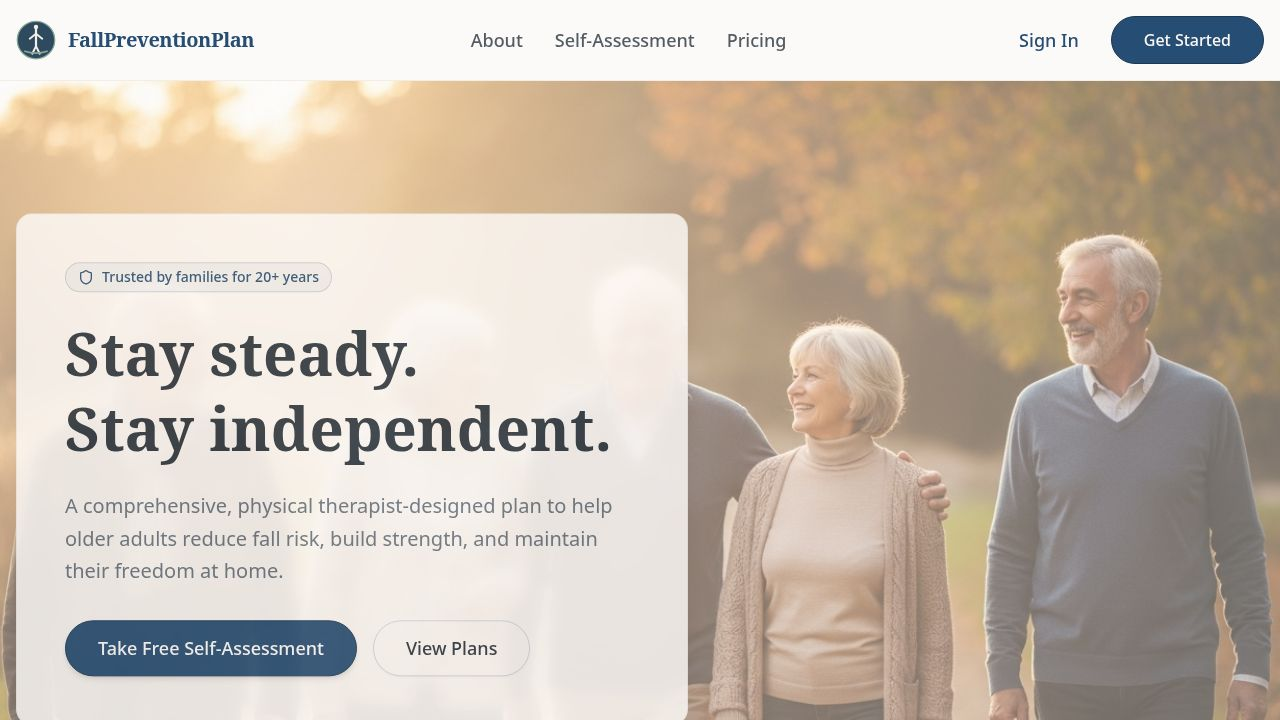
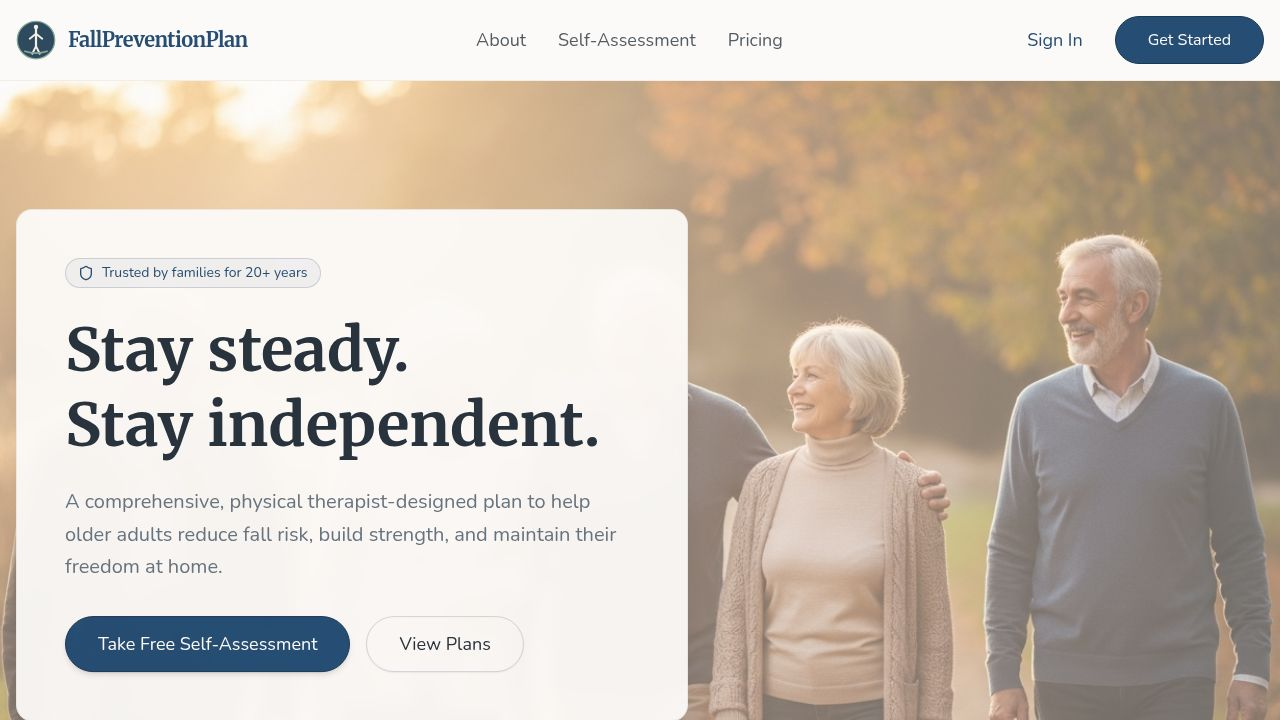
Remove development plugins causing performance issues in the builder
Remove Replit Vite dev plugins (@user/vite-plugin-runtime-error-modal, @user/vite-plugin-cartographer, @user/vite-plugin-dev-banner) from vite.config.ts to prevent performance degradation and lockups in the Replit Builder environment.

Replit-Commit-Author: Agent
Replit-Commit-Session-Id: fdaf1b6c-fd5c-43c2-bbff-111457590b0a
Replit-Commit-Checkpoint-Type: full_checkpoint
Replit-Commit-Event-Id: 6ae3dd61-efcc-47f7-8978-1588e67a6cf3
Replit-Commit-Screenshot-Url: https://storage.googleapis.com/screenshot-production-us-central1/c8083984-31cf-407a-8ee0-333b7ae05c8a/fdaf1b6c-fd5c-43c2-bbff-111457590b0a/IcngHtD
Replit-Helium-Checkpoint-Created: true

diff --git a/artifacts/fall-prevention/vite.config.ts b/artifacts/fall-prevention/vite.config.ts
@@ -2,8 +2,6 @@ import { defineConfig } from "vite";
 import react from "@vitejs/plugin-react";
 import tailwindcss from "@tailwindcss/vite";
 import path from "path";
-import runtimeErrorOverlay from "@replit/vite-plugin-runtime-error-modal";
-
 const rawPort = process.env.PORT;
 
 if (!rawPort) {
@@ -31,20 +29,11 @@ export default defineConfig({
   plugins: [
     react(),
     tailwindcss(),
-    runtimeErrorOverlay(),
-    ...(process.env.NODE_ENV !== "production" &&
-    process.env.REPL_ID !== undefined
-      ? [
-          await import("@replit/vite-plugin-cartographer").then((m) =>
-            m.cartographer({
-              root: path.resolve(import.meta.dirname, ".."),
-            }),
-          ),
-          await import("@replit/vite-plugin-dev-banner").then((m) =>
-            m.devBanner(),
-          ),
-        ]
-      : []),
+    // NOTE: Replit's cartographer + devBanner + runtime-error-overlay plugins
+    // were causing the Builder iframe to flood the parent frame with
+    // postMessage traffic, which spiked CPU and locked up the workspace.
+    // They're development-only conveniences and the app works fine without
+    // them; leaving them off keeps the prototype responsive.
   ],
   resolve: {
     alias: {